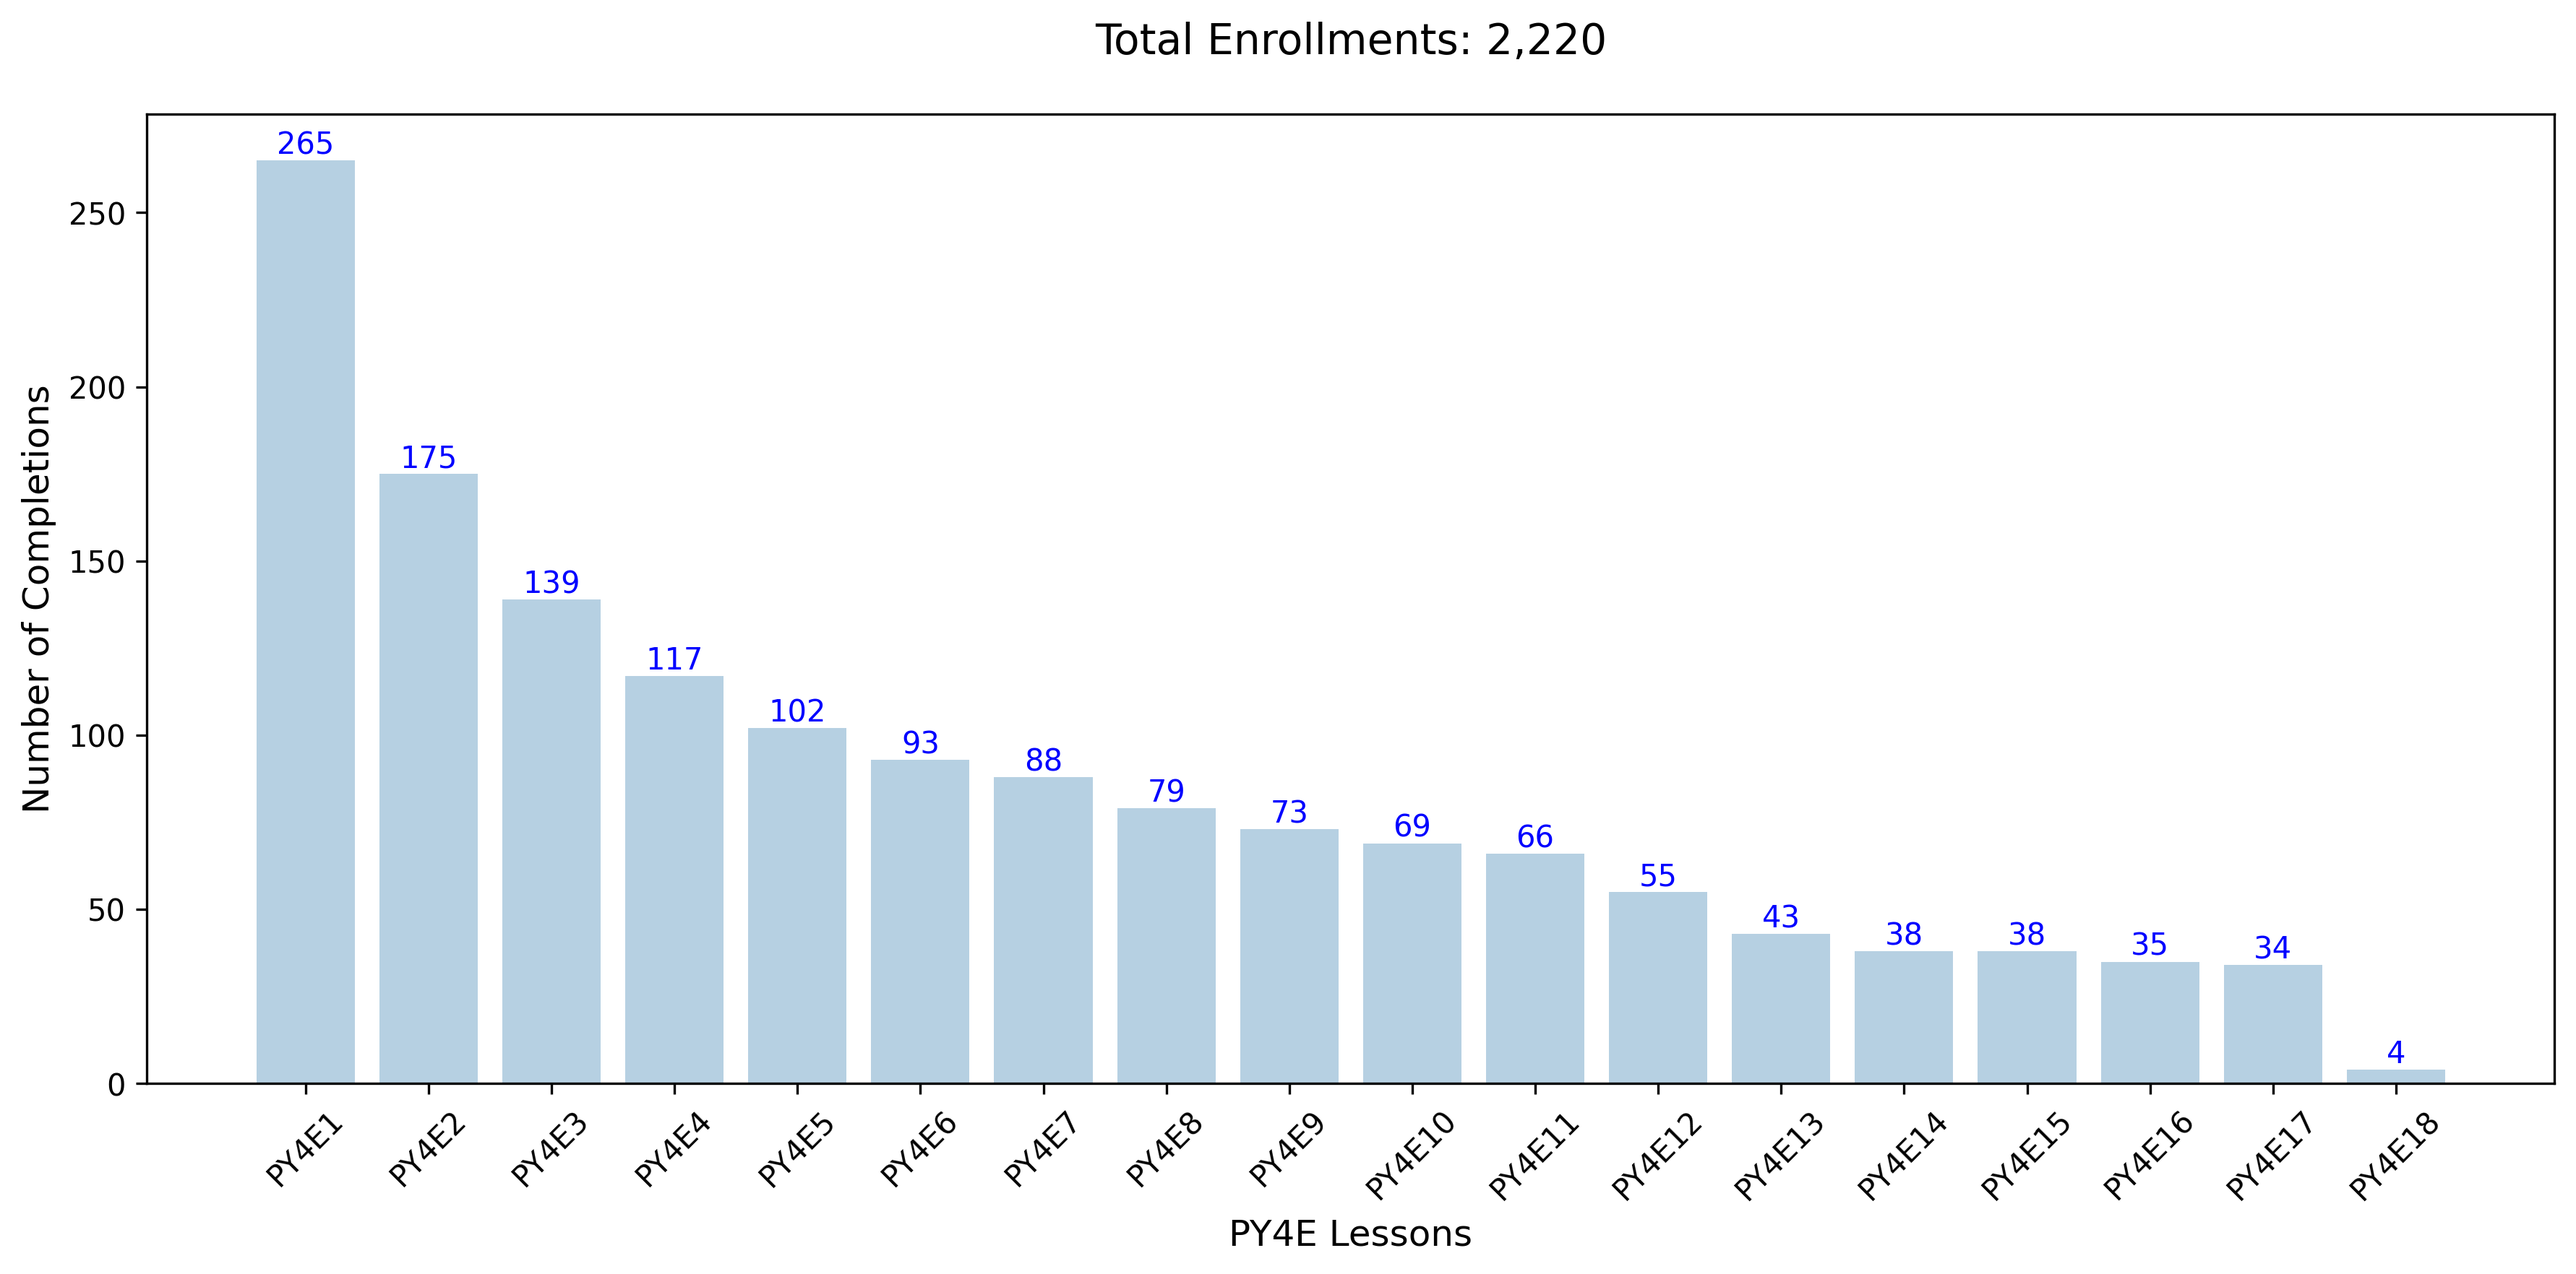
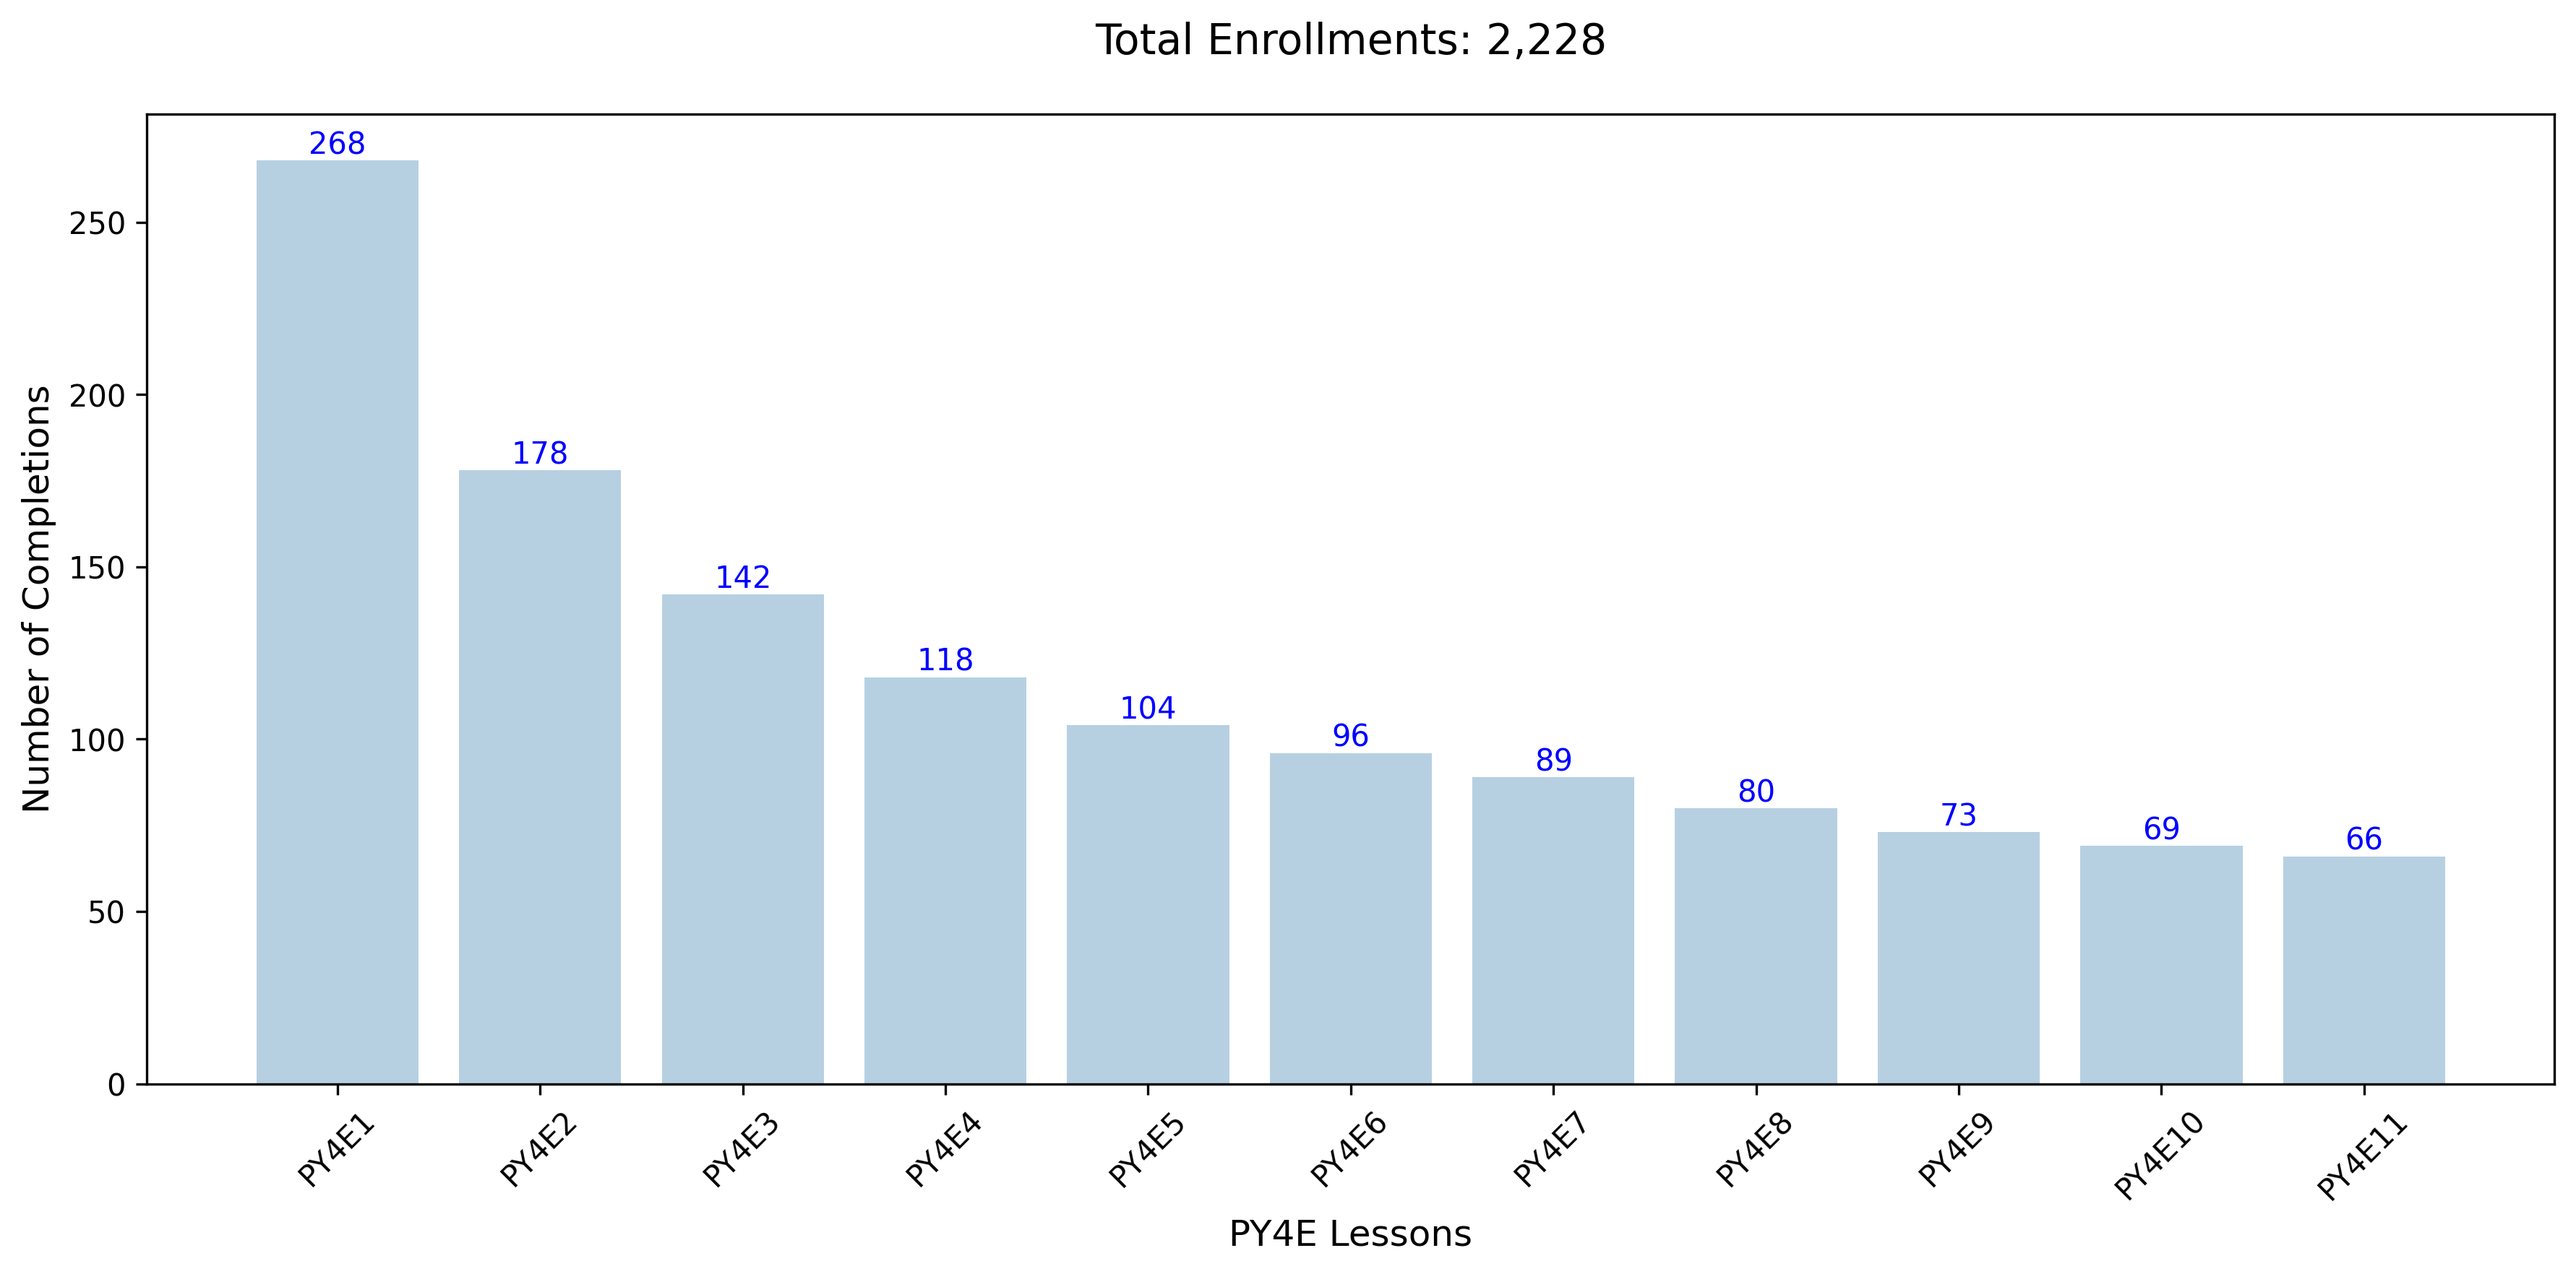
Limit PY4E course requirements to lessons 1-11 and update navigation
- Hide Data Jobs tab from navigation menu
- Update course requirements to only show lessons 1-11 (up to Tuples)
- Comment out lessons 12-18 in templates (preserving code for future use)
- Update backend logic to handle only PY4E1-PY4E11
- Rename navigation items: "Solutions" to "DEP Solutions", "Data Deep Dive" to "DEP Data Deep Dive"
- Hide "Next Step Intro to Flask" section from Start Your Journey page
- Update chart generation and dashboard to reflect reduced lesson count
- Modify update functionality to only process lessons 1-11

🤖 Generated with [Claude Code](https://claude.ai/code)

diff --git a/templates/dashboard.html b/templates/dashboard.html
@@ -23,13 +23,16 @@
                 <thead>
                     <tr>
                         <th>Course</th>
-                        {% for num in range(1, 19) %}
+                        {% for num in range(1, 12) %}
                             <th>{{ num }}</th>
                         {% endfor %}
+                        <!-- {% for num in range(12, 19) %}
+                            <th>{{ num }}</th>
+                        {% endfor %} -->
                         <th>Action</th>
                     </tr>
                     <tr>
-                        <td colspan="{{ 19 }}">  <!-- Adjust colspan to match the number of columns -->
+                        <td colspan="{{ 13 }}">  <!-- Adjust colspan to match the number of columns -->
                             <div class="col-md-12">
                                 <a href="https://www.py4e.com/lessons" target="_blank" style="font-size: 12px;">Link to PY4E Website</a> 
                             </div>
@@ -39,7 +42,7 @@
                 <tbody>
                     <tr class="small-row">
                         <td>PY4E</td>
-                        {% for status in user_status %}
+                        {% for status in user_status[:11] %}
                             <td>
                                 {% if status == "Done" %}
                                     <img src="/static/donetick.png" alt="Done" style="width: 15px; height: 15px; vertical-align: middle;">
@@ -48,6 +51,15 @@
                                 {% endif %}
                             </td>
                         {% endfor %}
+                        <!-- {% for status in user_status[11:] %}
+                            <td>
+                                {% if status == "Done" %}
+                                    <img src="/static/donetick.png" alt="Done" style="width: 15px; height: 15px; vertical-align: middle;">
+                                {% else %}
+                                    <img src="/static/todotick.png" alt="Not Done" style="width: 15px; height: 15px; vertical-align: middle;">
+                                {% endif %}
+                            </td>
+                        {% endfor %} -->
                         <td>
                             <a href="{{ url_for('update', username=username) }}" class="btn btn-primary">Update</a>
                         </td>

diff --git a/templates/startyourjourney.html b/templates/startyourjourney.html
@@ -120,12 +120,12 @@
                         <li>9 | Lists</li>
                         <li>10 | Dictionaries</li>
                         <li>11 | Tuples</li>
-                        <li>12 | Regular Expressions</li>
+                        <!-- <li>12 | Regular Expressions</li>
                         <li>13 | Network Programming</li>
                         <li>14 | Using Web Services</li>
                         <li>15 | Object-Oriented Programming</li>
                         <li>16 | Databases</li>
-                        <li>17 | Data Visualization</li>
+                        <li>17 | Data Visualization</li> -->
                     </ul>
                 </div>
             </div>
@@ -201,7 +201,7 @@
                 </div>
             </div>        
 
-            <div class="row">
+            <!-- <div class="row">
                 <div class="col-md-12">
                     <h1>Next Step</h1>
                 </div>
@@ -209,11 +209,11 @@
             <div>
                 <div class="col-md-12">
                     <h2><a href="https://www.youtube.com/playlist?list=PLXmMXHVSvS-AjwTOtiW1DXFYTgUlrUmHV">Intro to Flask</a></h2>
-                </div>                
+                </div>
                 <div>
                     This course is courtesy of Anthony Herbert, founder of <a href="https://prettyprinted.com/" target="_blank">PrettyPrinted</a>
                 </div>
-            </div>       
+            </div> -->       
 
         </div>
         

diff --git a/templates/base.html b/templates/base.html
@@ -78,9 +78,9 @@
             <div class="collapse navbar-collapse" id="navbarNav">
                 <ul class="navbar-nav me-auto">
                     <li class="nav-item mx-2"><a class="nav-link" href="{{ url_for('startyourjourney') }}">Start Your Journey</a></li>
-                    <li class="nav-item mx-2"><a class="nav-link" href="{{ url_for('datajobs') }}">Data Jobs</a></li>
-                    <li class="nav-item mx-2"><a class="nav-link" href="{{ url_for('datadeepdive') }}">Data Deep Dive</a></li>                    
-                    <li class="nav-item mx-2"><a class="nav-link" href="{{ url_for('solutions') }}">Solutions</a></li>                    
+                    <!-- <li class="nav-item mx-2"><a class="nav-link" href="{{ url_for('datajobs') }}">Data Jobs</a></li> -->
+                    <li class="nav-item mx-2"><a class="nav-link" href="{{ url_for('datadeepdive') }}">DEP Data Deep Dive</a></li>                    
+                    <li class="nav-item mx-2"><a class="nav-link" href="{{ url_for('solutions') }}">DEP Solutions</a></li>                    
                     <li class="nav-item mx-2"><a class="nav-link" href="{{ url_for('deptalents') }}">DEP Talents</a></li>                    
                     <li class="nav-item dropdown mx-2">
                         <a class="nav-link dropdown-toggle" href="#" id="programsDropdown" role="button" data-bs-toggle="dropdown" aria-haspopup="true" aria-expanded="false">

diff --git a/templates/update.html b/templates/update.html
@@ -21,7 +21,7 @@
         <h5>CitizenDev {{ username }}</h5>                
 
         <form method="post">
-            {% for i in range(1, 19) %}
+            {% for i in range(1, 12) %}
                 <div class="mb-3">
                     <label for="status{{ i }}" class="form-label">{{ lessons[i-1] }}</label>
                     <select class="form-select" id="status{{ i }}" name="status{{ i }}">
@@ -31,6 +31,15 @@
                     </select>
                 </div>
             {% endfor %}
+            <!-- {% for i in range(12, 19) %}
+                <div class="mb-3">
+                    <label for="status{{ i }}" class="form-label">{{ lessons[i-1] }}</label>
+                    <select class="form-select" id="status{{ i }}" name="status{{ i }}">
+                        <option value="To Do" {% if user['PY4E' + loop.index|string] == 'To Do' %} selected {% endif %}>To Do</option>
+                        <option value="Done" {% if user['PY4E' + loop.index|string] == 'Done' %} selected {% endif %}>Done</option>
+                    </select>
+                </div>
+            {% endfor %} -->
             <button type="submit" class="btn btn-primary">Update</button>
         </form>        
                 

diff --git a/app.py b/app.py
@@ -203,8 +203,10 @@ def ensure_datajobs_table_exists(db):
 def get_py4e_completion_counts(db):
     """Get completion counts for all PY4E lessons."""
     cur = db.cursor()
-    py4e_columns = [f'PY4E{i}' for i in range(1, 19)]
-    allowed_columns = {f'PY4E{i}' for i in range(1, 19)}
+    py4e_columns = [f'PY4E{i}' for i in range(1, 12)]
+    # py4e_columns = [f'PY4E{i}' for i in range(1, 19)]
+    allowed_columns = {f'PY4E{i}' for i in range(1, 12)}
+    # allowed_columns = {f'PY4E{i}' for i in range(1, 19)}
     py4e_done_counts = {}
     
     for column in py4e_columns:
@@ -232,7 +234,8 @@ def generate_py4e_chart(py4e_counts, total_enrollments, save_path=None):
         ax.grid(True, alpha=0.3)
         
         # Set x-axis labels
-        lesson_labels = [f'PY4E{i}' for i in range(1, 19)]
+        lesson_labels = [f'PY4E{i}' for i in range(1, 12)]
+        # lesson_labels = [f'PY4E{i}' for i in range(1, 19)]
         ax.set_xticks(range(len(lesson_labels)))
         ax.set_xticklabels(lesson_labels, fontsize=10)
         
@@ -419,11 +422,13 @@ def startyourjourney():
     cur = db.cursor()
 
     # Fetch completion counts for each PY4E lesson
-    py4e_columns = [f'PY4E{i}' for i in range(1, 19)]
+    py4e_columns = [f'PY4E{i}' for i in range(1, 12)]
+    # py4e_columns = [f'PY4E{i}' for i in range(1, 19)]
     py4e_done_counts = {}
 
     # Safe approach: use allowed column names to prevent SQL injection
-    allowed_columns = {f'PY4E{i}' for i in range(1, 19)}
+    allowed_columns = {f'PY4E{i}' for i in range(1, 12)}
+    # allowed_columns = {f'PY4E{i}' for i in range(1, 19)}
     
     for column in py4e_columns:
         # Validate column name against allowed list
@@ -484,7 +489,8 @@ def dashboard():
         users = cur.fetchall()
 
         # Initialize counts
-        py4e_columns = [f'PY4E{i}' for i in range(1, 19)]
+        py4e_columns = [f'PY4E{i}' for i in range(1, 12)]
+        # py4e_columns = [f'PY4E{i}' for i in range(1, 19)]
         py4e_done_counts = {}
         py4e_nickname_counts = {}
 
@@ -492,7 +498,8 @@ def dashboard():
         google_form_count = 0  # Variable for Google Form count
 
         # Safe approach: use allowed column names to prevent SQL injection
-        allowed_columns = {f'PY4E{i}' for i in range(1, 19)}
+        allowed_columns = {f'PY4E{i}' for i in range(1, 12)}
+        # allowed_columns = {f'PY4E{i}' for i in range(1, 19)}
         
         # Query counts
         for column in py4e_columns:
@@ -515,7 +522,8 @@ def dashboard():
         google_form_count = cur.fetchone()[0]
 
         # Query to get the status of the logged-in user
-        cur.execute("SELECT PY4E1, PY4E2, PY4E3, PY4E4, PY4E5, PY4E6, PY4E7, PY4E8, PY4E9, PY4E10, PY4E11, PY4E12, PY4E13, PY4E14, PY4E15, PY4E16, PY4E17, PY4E18 FROM user WHERE username=?", (username,))
+        cur.execute("SELECT PY4E1, PY4E2, PY4E3, PY4E4, PY4E5, PY4E6, PY4E7, PY4E8, PY4E9, PY4E10, PY4E11 FROM user WHERE username=?", (username,))
+        # cur.execute("SELECT PY4E1, PY4E2, PY4E3, PY4E4, PY4E5, PY4E6, PY4E7, PY4E8, PY4E9, PY4E10, PY4E11, PY4E12, PY4E13, PY4E14, PY4E15, PY4E16, PY4E17, PY4E18 FROM user WHERE username=?", (username,))
         user_status = cur.fetchone()  # Fetch the status row for the logged-in user
 
         # Close the database connection
@@ -531,7 +539,8 @@ def dashboard():
         ax.tick_params(axis='x', rotation=45)
 
         # Set x-axis labels directly to the lesson identifiers
-        lesson_labels = [f'PY4E{i}' for i in range(1, 19)]
+        lesson_labels = [f'PY4E{i}' for i in range(1, 12)]
+        # lesson_labels = [f'PY4E{i}' for i in range(1, 19)]
         ax.set_xticks(range(len(lesson_labels)))  # Set the x-ticks to the range of labels
         ax.set_xticklabels(lesson_labels, fontsize=10)  # Set explicit labels without counts
 
@@ -578,11 +587,15 @@ def dashboard():
 def update(username):
     if request.method == "POST":
         status_values = [
-            request.form[f"status{i}"] for i in range(1, 19)
-        ]  # Status values for PY4E1 to PY4E18
+            request.form[f"status{i}"] for i in range(1, 12)
+        ]  # Status values for PY4E1 to PY4E11
+        # status_values = [
+        #     request.form[f"status{i}"] for i in range(1, 19)
+        # ]  # Status values for PY4E1 to PY4E18
 
         query = "UPDATE user SET "
-        query += ", ".join([f"PY4E{i} = ?" for i in range(1, 19)])
+        query += ", ".join([f"PY4E{i} = ?" for i in range(1, 12)])
+        # query += ", ".join([f"PY4E{i} = ?" for i in range(1, 19)])
         query += ", last_update = ?"  # Add last_update column
         query += " WHERE username = ?"
 
